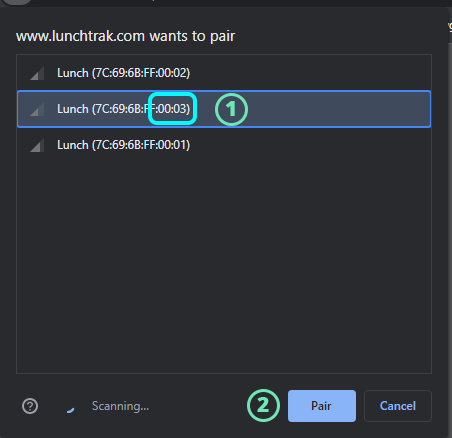
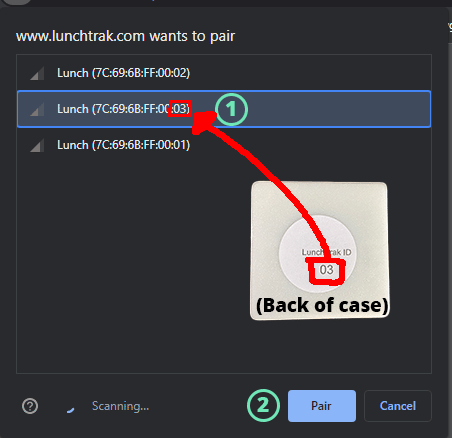
update setup image and ui

Changed region(s): [[0.3097, 0.2078, 0.8673, 0.742], [0.2788, 0.9201, 0.3097, 0.9498]]

diff --git a/components/setup/ImageSlides.tsx b/components/setup/ImageSlides.tsx
@@ -32,7 +32,7 @@ const ImageSlides = ({ images }: { images: StaticImageData[] }) => {
               src={src}
               className={`${
                 index === currentImage ? "" : "hidden"
-              } absolute left-1/2 top-1/2 block w-full -translate-x-1/2 -translate-y-1/2 rounded-lg`}
+              } absolute left-1/2 top-1/2 block h-full w-auto -translate-x-1/2 -translate-y-1/2 rounded-lg`}
               alt="..."
             />
           </div>

diff --git a/components/setup/Instructions.tsx b/components/setup/Instructions.tsx
@@ -3,7 +3,7 @@ import ImageSlides from "./ImageSlides";
 
 const Instructions = ({ currentStep }: { currentStep: number }) => {
   return (
-    <div className="flex flex-col items-center justify-center space-y-2 sm:p-4">
+    <div className="m-4 flex flex-col items-center justify-center space-y-2">
       <div className="text-center text-3xl font-semibold text-gray-700 dark:text-white">
         {instructions[currentStep].title}
       </div>
